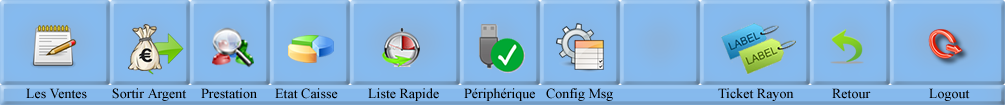
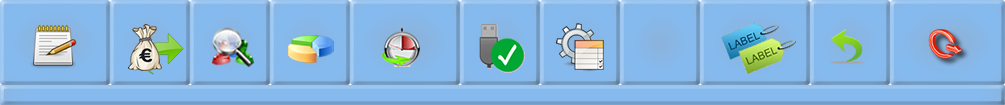
multilangue fonctionne added : barre menu vente converted to jlabel insted of drawen

diff --git a/src/presentation/JFVente.java b/src/presentation/JFVente.java
@@ -463,6 +463,17 @@ public class JFVente extends javax.swing.JFrame {
         jButtonAdmin = new javax.swing.JButton();
         jButton4 = new javax.swing.JButton();
         jButtonLogout = new javax.swing.JButton();
+        jLabel44 = new javax.swing.JLabel();
+        jLabel46 = new javax.swing.JLabel();
+        jLabel48 = new javax.swing.JLabel();
+        jLabel51 = new javax.swing.JLabel();
+        jLabel53 = new javax.swing.JLabel();
+        jLabel54 = new javax.swing.JLabel();
+        jLabel55 = new javax.swing.JLabel();
+        jLabel56 = new javax.swing.JLabel();
+        jLabel57 = new javax.swing.JLabel();
+        jLabel58 = new javax.swing.JLabel();
+        jLabel59 = new javax.swing.JLabel();
         jLabelTopMenuBG = new javax.swing.JLabel();
         jPanelKeyPadRight = new javax.swing.JPanel();
         jButtonSousTo = new javax.swing.JButton();
@@ -702,6 +713,7 @@ public class JFVente extends javax.swing.JFrame {
         jPanelLangue = new javax.swing.JPanel();
         jLabel25 = new javax.swing.JLabel();
         jTextFieldLangue = new javax.swing.JTextField();
+        jPanel2 = new javax.swing.JPanel();
         jMenuBar1 = new javax.swing.JMenuBar();
         jMenu1 = new javax.swing.JMenu();
         jMenu2 = new javax.swing.JMenu();
@@ -1047,7 +1059,73 @@ public class JFVente extends javax.swing.JFrame {
         jPanelTopMenu.add(jButtonLogout);
         jButtonLogout.setBounds(890, 0, 120, 80);
 
-        jLabelTopMenuBG.setIcon(new javax.swing.ImageIcon(getClass().getResource("/images/menuVente3.png"))); // NOI18N
+        jLabel44.setHorizontalAlignment(javax.swing.SwingConstants.CENTER);
+        jLabel44.setText("Menu");
+        jLabel44.setVerticalAlignment(javax.swing.SwingConstants.BOTTOM);
+        jPanelTopMenu.add(jLabel44);
+        jLabel44.setBounds(0, 80, 110, 20);
+
+        jLabel46.setHorizontalAlignment(javax.swing.SwingConstants.CENTER);
+        jLabel46.setText("Logout");
+        jLabel46.setVerticalAlignment(javax.swing.SwingConstants.BOTTOM);
+        jPanelTopMenu.add(jLabel46);
+        jLabel46.setBounds(908, 80, 90, 20);
+
+        jLabel48.setHorizontalAlignment(javax.swing.SwingConstants.CENTER);
+        jLabel48.setText("Dernier Ticket");
+        jLabel48.setVerticalAlignment(javax.swing.SwingConstants.BOTTOM);
+        jPanelTopMenu.add(jLabel48);
+        jLabel48.setBounds(810, 80, 100, 20);
+
+        jLabel51.setHorizontalAlignment(javax.swing.SwingConstants.CENTER);
+        jLabel51.setText("Administateur");
+        jLabel51.setVerticalAlignment(javax.swing.SwingConstants.BOTTOM);
+        jPanelTopMenu.add(jLabel51);
+        jLabel51.setBounds(710, 80, 100, 20);
+
+        jLabel53.setHorizontalAlignment(javax.swing.SwingConstants.CENTER);
+        jLabel53.setText("Ouvrir");
+        jLabel53.setVerticalAlignment(javax.swing.SwingConstants.BOTTOM);
+        jPanelTopMenu.add(jLabel53);
+        jLabel53.setBounds(620, 80, 80, 20);
+
+        jLabel54.setHorizontalAlignment(javax.swing.SwingConstants.CENTER);
+        jLabel54.setText("Retour Artic.");
+        jLabel54.setVerticalAlignment(javax.swing.SwingConstants.BOTTOM);
+        jPanelTopMenu.add(jLabel54);
+        jLabel54.setBounds(540, 80, 80, 20);
+
+        jLabel55.setHorizontalAlignment(javax.swing.SwingConstants.CENTER);
+        jLabel55.setText("Remise Gen.");
+        jLabel55.setVerticalAlignment(javax.swing.SwingConstants.BOTTOM);
+        jPanelTopMenu.add(jLabel55);
+        jLabel55.setBounds(460, 80, 80, 20);
+
+        jLabel56.setHorizontalAlignment(javax.swing.SwingConstants.CENTER);
+        jLabel56.setText("Annuler Vente");
+        jLabel56.setVerticalAlignment(javax.swing.SwingConstants.BOTTOM);
+        jPanelTopMenu.add(jLabel56);
+        jLabel56.setBounds(350, 80, 110, 20);
+
+        jLabel57.setHorizontalAlignment(javax.swing.SwingConstants.CENTER);
+        jLabel57.setText("Attente");
+        jLabel57.setVerticalAlignment(javax.swing.SwingConstants.BOTTOM);
+        jPanelTopMenu.add(jLabel57);
+        jLabel57.setBounds(270, 80, 80, 20);
+
+        jLabel58.setHorizontalAlignment(javax.swing.SwingConstants.CENTER);
+        jLabel58.setText("Sup. Article");
+        jLabel58.setVerticalAlignment(javax.swing.SwingConstants.BOTTOM);
+        jPanelTopMenu.add(jLabel58);
+        jLabel58.setBounds(190, 80, 80, 20);
+
+        jLabel59.setHorizontalAlignment(javax.swing.SwingConstants.CENTER);
+        jLabel59.setText("Artcile");
+        jLabel59.setVerticalAlignment(javax.swing.SwingConstants.BOTTOM);
+        jPanelTopMenu.add(jLabel59);
+        jLabel59.setBounds(110, 80, 80, 20);
+
+        jLabelTopMenuBG.setIcon(new javax.swing.ImageIcon(getClass().getResource("/images/menuVente3.jpg"))); // NOI18N
         jPanelTopMenu.add(jLabelTopMenuBG);
         jLabelTopMenuBG.setBounds(1, -4, 1005, 110);
 
@@ -3085,6 +3163,17 @@ public class JFVente extends javax.swing.JFrame {
 
         jPanelCardVendeur.add(jPanelLangue, "card10");
 
+        javax.swing.GroupLayout jPanel2Layout = new javax.swing.GroupLayout(jPanel2);
+        jPanel2.setLayout(jPanel2Layout);
+        jPanel2Layout.setHorizontalGroup(
+            jPanel2Layout.createParallelGroup(javax.swing.GroupLayout.Alignment.LEADING)
+            .addGap(0, 100, Short.MAX_VALUE)
+        );
+        jPanel2Layout.setVerticalGroup(
+            jPanel2Layout.createParallelGroup(javax.swing.GroupLayout.Alignment.LEADING)
+            .addGap(0, 100, Short.MAX_VALUE)
+        );
+
         javax.swing.GroupLayout jPanelMenuVendeurLayout = new javax.swing.GroupLayout(jPanelMenuVendeur);
         jPanelMenuVendeur.setLayout(jPanelMenuVendeurLayout);
         jPanelMenuVendeurLayout.setHorizontalGroup(
@@ -3131,6 +3220,11 @@ public class JFVente extends javax.swing.JFrame {
                     .addGap(623, 623, 623)
                     .addComponent(jButtonLangue, javax.swing.GroupLayout.PREFERRED_SIZE, 75, javax.swing.GroupLayout.PREFERRED_SIZE)
                     .addContainerGap(310, Short.MAX_VALUE)))
+            .addGroup(jPanelMenuVendeurLayout.createParallelGroup(javax.swing.GroupLayout.Alignment.LEADING)
+                .addGroup(jPanelMenuVendeurLayout.createSequentialGroup()
+                    .addGap(0, 0, Short.MAX_VALUE)
+                    .addComponent(jPanel2, javax.swing.GroupLayout.PREFERRED_SIZE, javax.swing.GroupLayout.DEFAULT_SIZE, javax.swing.GroupLayout.PREFERRED_SIZE)
+                    .addGap(0, 0, Short.MAX_VALUE)))
         );
         jPanelMenuVendeurLayout.setVerticalGroup(
             jPanelMenuVendeurLayout.createParallelGroup(javax.swing.GroupLayout.Alignment.LEADING)
@@ -3154,6 +3248,11 @@ public class JFVente extends javax.swing.JFrame {
                 .addGroup(jPanelMenuVendeurLayout.createSequentialGroup()
                     .addComponent(jButtonLangue, javax.swing.GroupLayout.PREFERRED_SIZE, 96, javax.swing.GroupLayout.PREFERRED_SIZE)
                     .addGap(0, 612, Short.MAX_VALUE)))
+            .addGroup(jPanelMenuVendeurLayout.createParallelGroup(javax.swing.GroupLayout.Alignment.LEADING)
+                .addGroup(jPanelMenuVendeurLayout.createSequentialGroup()
+                    .addGap(0, 0, Short.MAX_VALUE)
+                    .addComponent(jPanel2, javax.swing.GroupLayout.PREFERRED_SIZE, javax.swing.GroupLayout.DEFAULT_SIZE, javax.swing.GroupLayout.PREFERRED_SIZE)
+                    .addGap(0, 0, Short.MAX_VALUE)))
         );
 
         jPanelCard.add(jPanelMenuVendeur, "card5");
@@ -3170,7 +3269,7 @@ public class JFVente extends javax.swing.JFrame {
         getContentPane().setLayout(layout);
         layout.setHorizontalGroup(
             layout.createParallelGroup(javax.swing.GroupLayout.Alignment.LEADING)
-            .addComponent(jPanelCard, javax.swing.GroupLayout.DEFAULT_SIZE, 1008, Short.MAX_VALUE)
+            .addComponent(jPanelCard, javax.swing.GroupLayout.PREFERRED_SIZE, 1008, Short.MAX_VALUE)
         );
         layout.setVerticalGroup(
             layout.createParallelGroup(javax.swing.GroupLayout.Alignment.LEADING)
@@ -4505,12 +4604,23 @@ public class JFVente extends javax.swing.JFrame {
     private javax.swing.JLabel jLabel41;
     private javax.swing.JLabel jLabel42;
     private javax.swing.JLabel jLabel43;
+    private javax.swing.JLabel jLabel44;
     private javax.swing.JLabel jLabel45;
+    private javax.swing.JLabel jLabel46;
     private javax.swing.JLabel jLabel47;
+    private javax.swing.JLabel jLabel48;
     private javax.swing.JLabel jLabel49;
     private javax.swing.JLabel jLabel5;
     private javax.swing.JLabel jLabel50;
+    private javax.swing.JLabel jLabel51;
     private javax.swing.JLabel jLabel52;
+    private javax.swing.JLabel jLabel53;
+    private javax.swing.JLabel jLabel54;
+    private javax.swing.JLabel jLabel55;
+    private javax.swing.JLabel jLabel56;
+    private javax.swing.JLabel jLabel57;
+    private javax.swing.JLabel jLabel58;
+    private javax.swing.JLabel jLabel59;
     private javax.swing.JLabel jLabel6;
     private javax.swing.JLabel jLabel7;
     private javax.swing.JLabel jLabel8;
@@ -4555,6 +4665,7 @@ public class JFVente extends javax.swing.JFrame {
     private javax.swing.JPanel jPanel14;
     private javax.swing.JPanel jPanel1Peripherique;
     private javax.swing.JPanel jPanel1TicketRaMen;
+    private javax.swing.JPanel jPanel2;
     private javax.swing.JPanel jPanel5;
     private javax.swing.JPanel jPanel6;
     private javax.swing.JPanel jPanel7;
